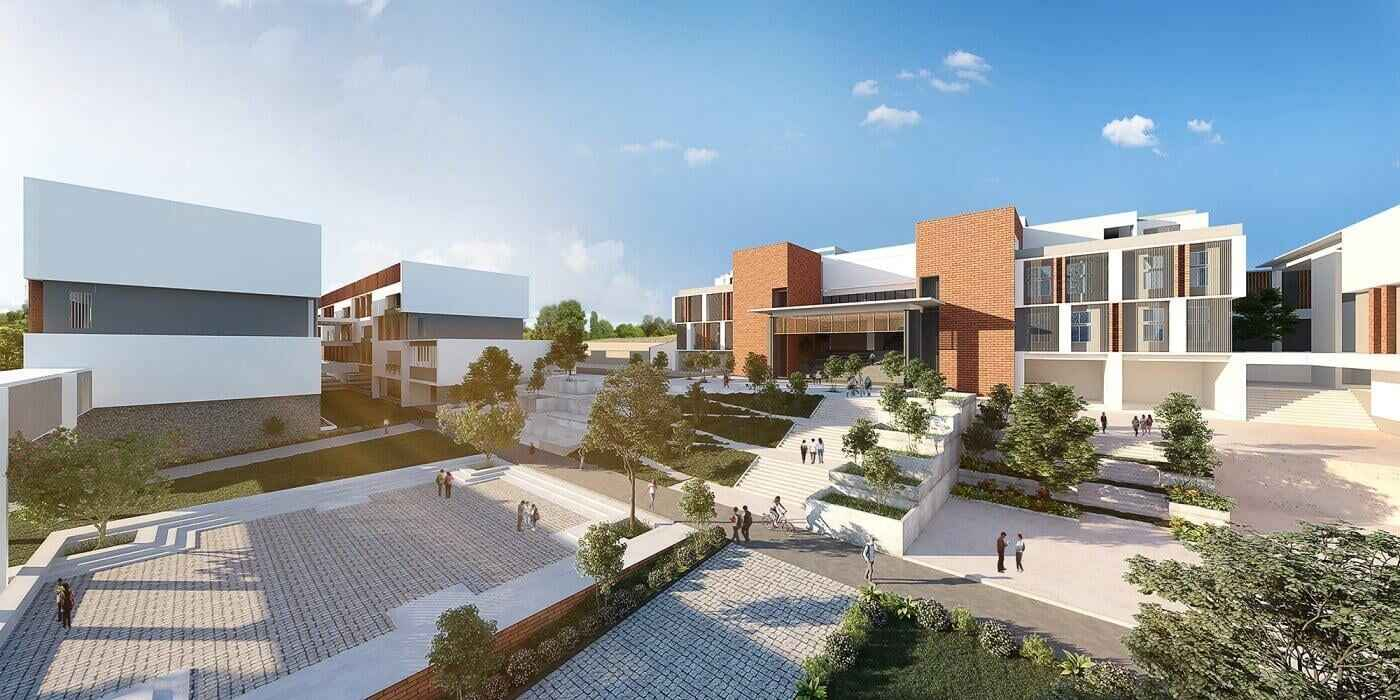
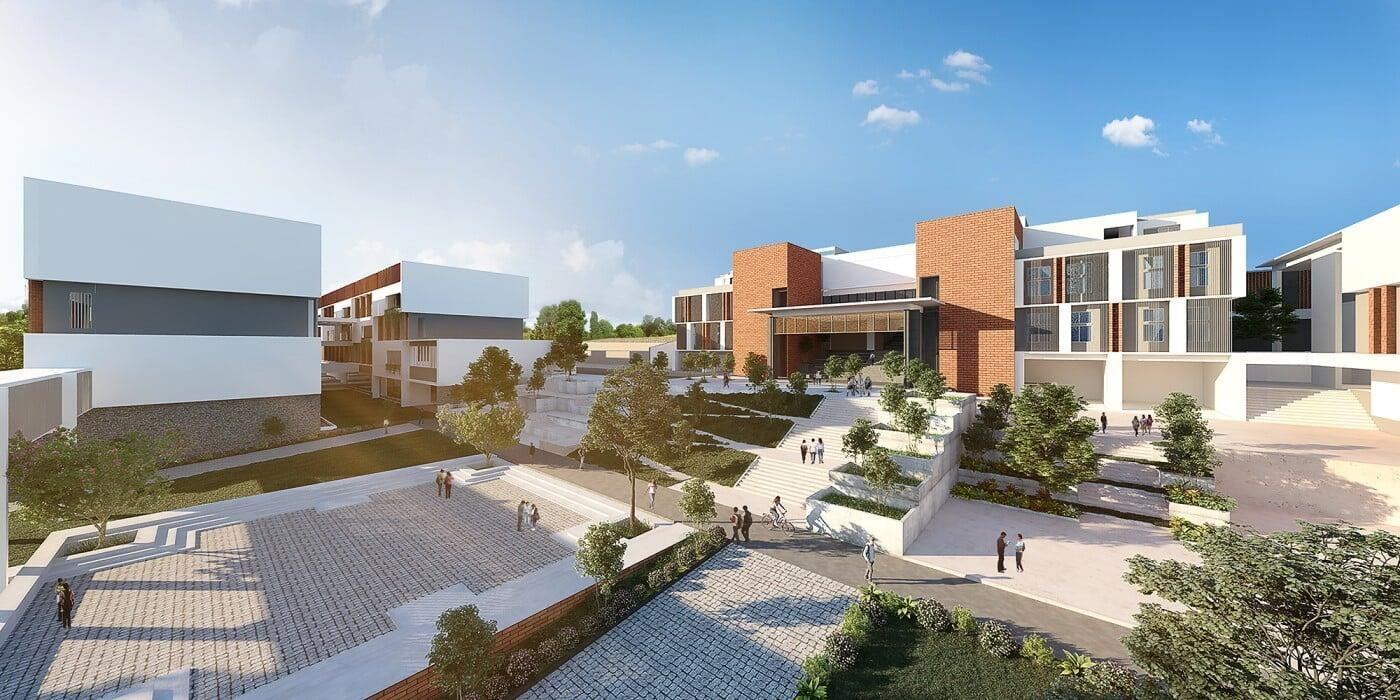
change

diff --git a/client/nss/index.html b/client/nss/index.html
@@ -2,7 +2,7 @@
 <html lang="en">
   <head>
     <meta charset="UTF-8" />
-    <link fetchpriority="high" rel="preload" as="image"  href="homeing.jpg" type="image/avif">
+    <link rel="preload" as="image"  href="homeing.jpg">
     <link rel="icon" type="image/svg+xml" href="/iiitdmklogo.png" />
   
     <meta name="viewport" content="width=device-width, initial-scale=1.0" />

diff --git a/client/nss/src/components/home.jsx b/client/nss/src/components/home.jsx
@@ -177,7 +177,7 @@ const handledate=(e)=>{
             <img id="headlogo2" class="head-logo" src="iiitdmklogo.png" alt=""/>
         </div>
         <div class="clgpic" id='clgpic'>
-            <img loading='lazy' src="homeing.avif" alt="" />
+            <img loading='lazy' src="homeing.jpg" alt="" />
         </div>
     </div>
 
